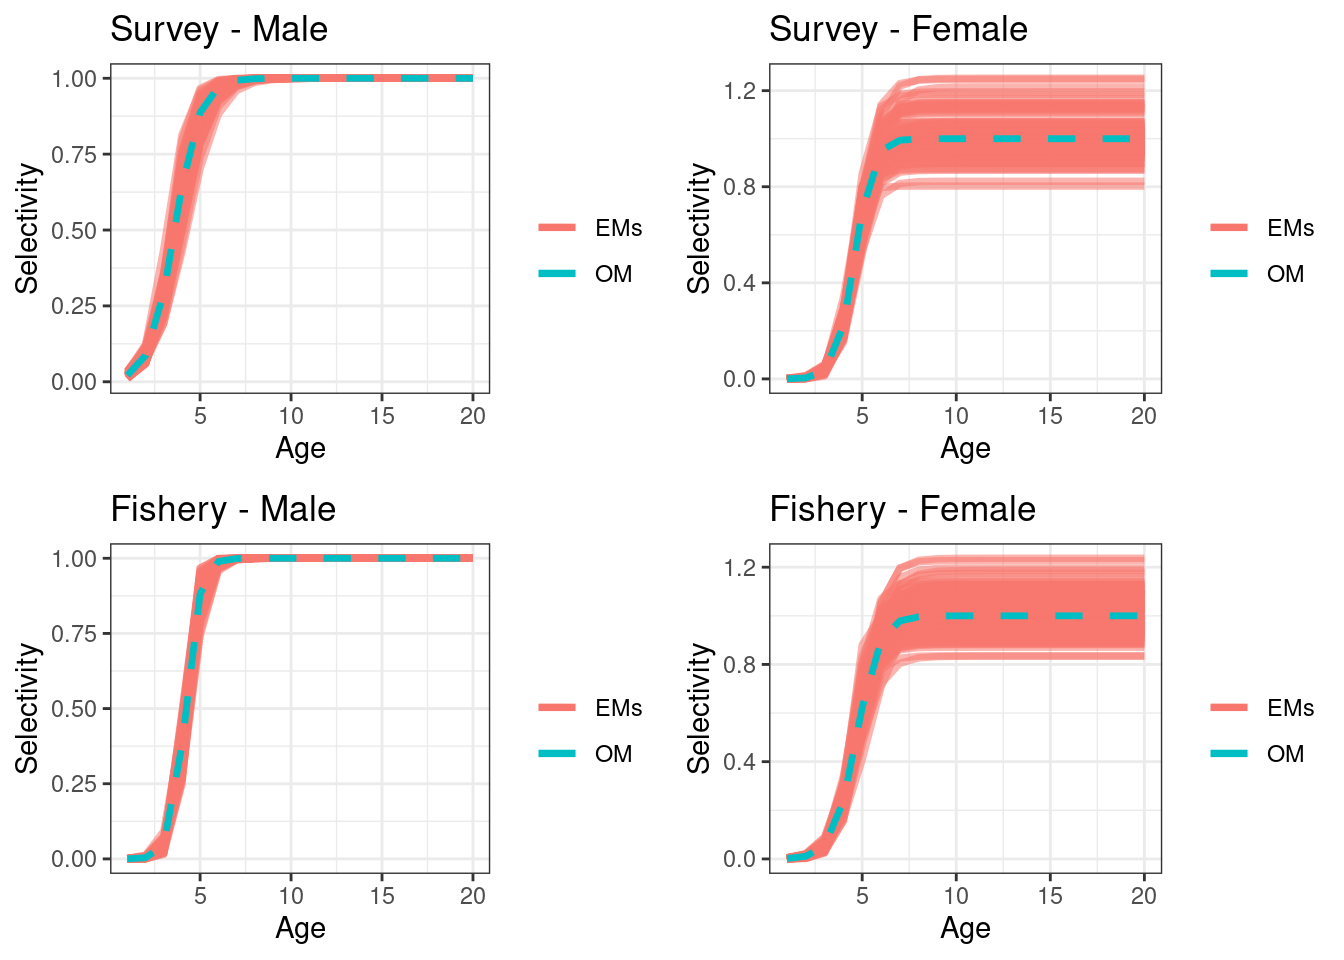
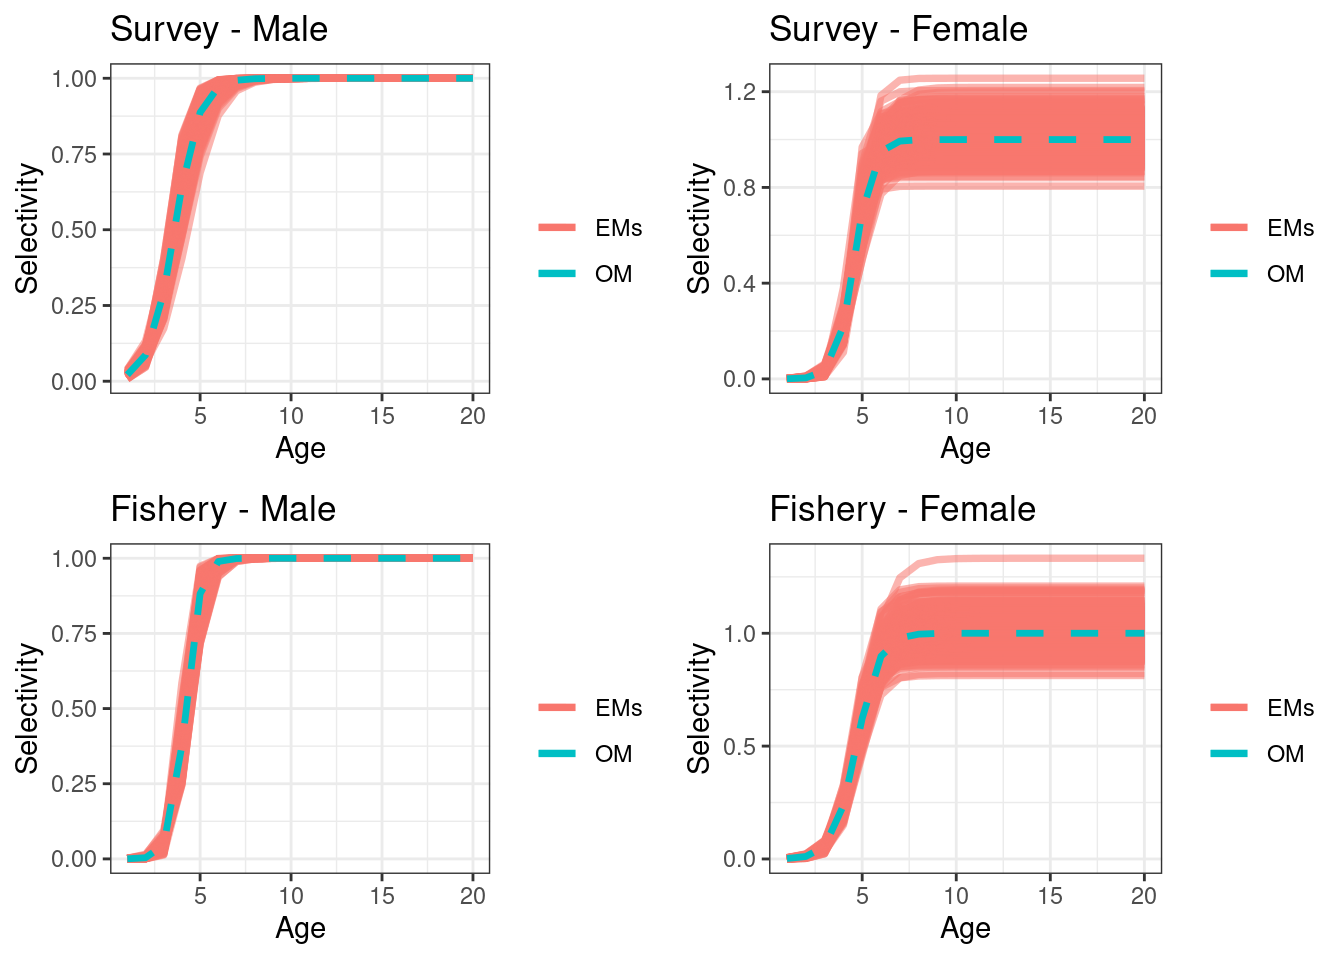
Craig44 published a site update

diff --git a/sexratios.html b/sexratios.html
@@ -270,12 +270,13 @@ where, <span class="math inline">\(N^{eff, k}_{y,s}\)</span> is the effective sa
 <ul>
 <li>LF observations with sexual dimorphism in growth. A possible reason LF’s could be influencing assessment output is due to mis-specified growth à la <span class="citation">Minte-Vera et al. (<a href="#ref-minte2017get" role="doc-biblioref">2017</a>)</span></li>
 <li>Sample size between the two approaches</li>
-<li>Actual sex ratio skewed in the recruitment process, rather than just a selectivity effect which was of focus in the following simulation .</li>
+<li>Actual sex ratio skewed in the recruitment process, rather than just a selectivity effect which was of focus in the following simulation</li>
+<li>Look at the effect on <span class="math inline">\(F\)</span>’s I only summarised SSB and selectivities</li>
 </ul>
 </div>
 <div id="operating-model-om-parameters" class="section level3 hasAnchor" number="4.1.2">
 <h3><span class="header-section-number">4.1.2</span> Operating Model (OM) Parameters<a href="sexratios.html#operating-model-om-parameters" class="anchor-section" aria-label="Anchor link to header"></a></h3>
-<div class="sourceCode" id="cb2"><pre class="sourceCode r"><code class="sourceCode r"><span id="cb2-1"><a href="sexratios.html#cb2-1" aria-hidden="true" tabindex="-1"></a>n_sims <span class="ot">=</span> <span class="dv">100</span></span>
+<div class="sourceCode" id="cb2"><pre class="sourceCode r"><code class="sourceCode r"><span id="cb2-1"><a href="sexratios.html#cb2-1" aria-hidden="true" tabindex="-1"></a>n_sims <span class="ot">=</span> <span class="dv">250</span></span>
 <span id="cb2-2"><a href="sexratios.html#cb2-2" aria-hidden="true" tabindex="-1"></a></span>
 <span id="cb2-3"><a href="sexratios.html#cb2-3" aria-hidden="true" tabindex="-1"></a>bio_params <span class="ot">=</span> <span class="fu">list</span>(</span>
 <span id="cb2-4"><a href="sexratios.html#cb2-4" aria-hidden="true" tabindex="-1"></a>  <span class="at">ages =</span> <span class="dv">1</span><span class="sc">:</span><span class="dv">20</span>,</span>
@@ -349,7 +350,7 @@ S^{female}_a = \alpha/(1+19^{(a_{50}-a)/a_{to95})})
 <p>Although this scenario assumed both male and female had the same max selectivity I wanted to see the effect of estimating this additional parameter.</p>
 <div id="em-1-using-approach-1" class="section level4 unnumbered hasAnchor">
 <h4>EM 1 (using approach 1)<a href="sexratios.html#em-1-using-approach-1" class="anchor-section" aria-label="Anchor link to header"></a></h4>
-<pre><code>## max gradient from 100 simualtions =  7.735343e-07</code></pre>
+<pre><code>## max gradient from 100 simualtions =  2.148523e-06</code></pre>
 <p><img src="_main_files/figure-html/run_scenario_1_EM_1-1.png" width="672" /></p>
 <div class="figure"><span style="display:block;" id="fig:runscenario1EM1ssb"></span>
 <img src="_main_files/figure-html/runscenario1EM1ssb-1.png" alt="Absolute SSBs, red line OM (truth), black lines are the estimated values form EMs" width="672" />
@@ -360,7 +361,7 @@ Figure 4.2: Absolute SSBs, red line OM (truth), black lines are the estimated va
 </div>
 <div id="em-2-using-approach-2" class="section level4 unnumbered hasAnchor">
 <h4>EM 2 (using approach 2)<a href="sexratios.html#em-2-using-approach-2" class="anchor-section" aria-label="Anchor link to header"></a></h4>
-<pre><code>## max gradient from 100 simualtions =  1.008376e-05</code></pre>
+<pre><code>## max gradient from 100 simualtions =  0.01003628</code></pre>
 <p><img src="_main_files/figure-html/run_scenario_1_EM_2-1.png" width="672" /></p>
 <div class="figure"><span style="display:block;" id="fig:runscenario1EM2ssb"></span>
 <img src="_main_files/figure-html/runscenario1EM2ssb-1.png" alt="Absolute SSBs, red line OM (truth), black lines are the estimated values form EMs" width="672" />
@@ -376,7 +377,7 @@ Figure 4.3: Absolute SSBs, red line OM (truth), black lines are the estimated va
 <div class="sourceCode" id="cb5"><pre class="sourceCode r"><code class="sourceCode r"><span id="cb5-1"><a href="sexratios.html#cb5-1" aria-hidden="true" tabindex="-1"></a>true_pars<span class="sc">$</span>logit_f_alpha_f <span class="ot">=</span> <span class="fu">logit_general</span>(<span class="fl">1.2</span>, TMB_data<span class="sc">$</span>sel_alpha_bounds[<span class="dv">1</span>], TMB_data<span class="sc">$</span>sel_alpha_bounds[<span class="dv">2</span>])</span></code></pre></div>
 <div id="em-1-using-approach-1-1" class="section level4 unnumbered hasAnchor">
 <h4>EM 1 (using approach 1)<a href="sexratios.html#em-1-using-approach-1-1" class="anchor-section" aria-label="Anchor link to header"></a></h4>
-<pre><code>## max gradient from 100 simualtions =  2.209329e-06</code></pre>
+<pre><code>## max gradient from 100 simualtions =  0.09063815</code></pre>
 <p><img src="_main_files/figure-html/run_scenario_2_EM_1-1.png" width="672" /></p>
 <div class="figure"><span style="display:block;" id="fig:runscenario2EM1ssb"></span>
 <img src="_main_files/figure-html/runscenario2EM1ssb-1.png" alt="Absolute SSBs, red line OM (truth), black lines are the estimated values form EMs" width="672" />
@@ -387,7 +388,7 @@ Figure 4.4: Absolute SSBs, red line OM (truth), black lines are the estimated va
 </div>
 <div id="em-2-using-approach-2-1" class="section level4 unnumbered hasAnchor">
 <h4>EM 2 (using approach 2)<a href="sexratios.html#em-2-using-approach-2-1" class="anchor-section" aria-label="Anchor link to header"></a></h4>
-<pre><code>## max gradient from 100 simualtions =  7.067668e-06</code></pre>
+<pre><code>## max gradient from 100 simualtions =  1.558348e-05</code></pre>
 <p><img src="_main_files/figure-html/run_scenario_2_EM_2-1.png" width="672" /></p>
 <div class="figure"><span style="display:block;" id="fig:runscenario2EM2ssb"></span>
 <img src="_main_files/figure-html/runscenario2EM2ssb-1.png" alt="Absolute SSBs, red line OM (truth), black lines are the estimated values form EMs" width="672" />
@@ -398,7 +399,7 @@ Figure 4.5: Absolute SSBs, red line OM (truth), black lines are the estimated va
 </div>
 <div id="em-3-using-approach-1-with-female-fixed-at-alpha-1" class="section level4 unnumbered hasAnchor">
 <h4>EM 3 (using approach 1 with female fixed at <span class="math inline">\(\alpha = 1\)</span>)<a href="sexratios.html#em-3-using-approach-1-with-female-fixed-at-alpha-1" class="anchor-section" aria-label="Anchor link to header"></a></h4>
-<pre><code>## max gradient from 100 simualtions =  2.407385e-06</code></pre>
+<pre><code>## max gradient from 100 simualtions =  1.886556e-06</code></pre>
 <p><img src="_main_files/figure-html/run_scenario_2_EM_3-1.png" width="672" /></p>
 <div class="figure"><span style="display:block;" id="fig:runscenario2EM3ssb"></span>
 <img src="_main_files/figure-html/runscenario2EM3ssb-1.png" alt="Absolute SSBs, red line OM (truth), black lines are the estimated values form EMs" width="672" />
@@ -480,7 +481,8 @@ gitbook.start({
 "options": null
 },
 "toc": {
-"collapse": "subsection"
+"collapse": "subsection",
+"depth": 1
 }
 });
 });

diff --git a/index.html b/index.html
@@ -235,7 +235,14 @@ div.csl-indent {
 </div>
 <div id="overview" class="section level1 hasAnchor" number="1">
 <h1><span class="header-section-number">Chapter 1</span> Overview<a href="index.html#overview" class="anchor-section" aria-label="Anchor link to header"></a></h1>
-<p>This Gitbook documents my/our research for the Alaska sablefish (<em>Anoplopoma fimbria</em>).</p>
+<p>This Gitbook documents my/our research for the Alaska sablefish (<em>Anoplopoma fimbria</em>). The objective is to develop and explore a spatially explicit stock assessment for Alaskan sablefish. However, there will be many other topics that I will likely only scratch the surface on. The following outlines the chapters in this document</p>
+<ul>
+<li><p>Chapter <a href="objectives.html#objectives">2</a> is a list of objectives that we have set or accomplished during this research project. Some of our research cannot be in this book/repo due to the confidential nature of the data. This checklist should include tasks for the wider research</p></li>
+<li><p>Chapter <a href="modeldescription.html#modeldescription">3</a> documents the current stock assessment model and assumptions (work in progress). This first is the first step of the project and helps me get a grasp of data and dynamics that are important</p></li>
+<li><p>Chapter <a href="sexratios.html#sexratios">4</a> explores how to include sex disaggregated composition observations that can include sex ratio information. It conducts a simple simulation to investigate two different approaches than what is currently done in the assessment</p></li>
+<li><p>Chapter <a href="Fexplore.html#Fexplore">5</a> explores how to parameterise fishing mortality. The current approach is to estimate an annual fishing mortality parameter for each gear. I feel slightly uncomfortable about this approach moving towards a spatial model as the number of estimated parameters will explode. This chapter looks at two alternative approaches that either derive fishing mortality estimates using a Newton Raphson solver which is borrowed from the Stock Synthesis “hybrid” approach <span class="citation">(<a href="#ref-methot2013stock" role="doc-biblioref">Methot Jr and Wetzel 2013</a>)</span> and Pope’s discrete approach <span class="citation">(<a href="#ref-pope1972investigation" role="doc-biblioref">Pope 1972</a>)</span> which uses exploitation rates. All of these methods have been used in literature for decades and we don’t wish to identify a “best” methods. The aim is to do a simulation and make sure these two approaches are numerical stability and have good convergence properties under a range of fishing patterns.</p></li>
+<li><p>Chapter <a href="tagdata.html#tagdata">6</a> describes the tagging data and how it can be used within a spatial model but also used in a panmictic model for informing population dynamics such as growth.</p></li>
+</ul>
 <div class="sourceCode" id="cb1"><pre class="sourceCode r"><code class="sourceCode r"><span id="cb1-1"><a href="index.html#cb1-1" aria-hidden="true" tabindex="-1"></a><span class="fu">library</span>(TMB)</span>
 <span id="cb1-2"><a href="index.html#cb1-2" aria-hidden="true" tabindex="-1"></a><span class="co">#library(stockassessmenthelper)</span></span>
 <span id="cb1-3"><a href="index.html#cb1-3" aria-hidden="true" tabindex="-1"></a><span class="fu">library</span>(ggplot2)</span>
@@ -243,6 +250,15 @@ div.csl-indent {
 <span id="cb1-5"><a href="index.html#cb1-5" aria-hidden="true" tabindex="-1"></a><span class="fu">library</span>(reshape2)</span>
 <span id="cb1-6"><a href="index.html#cb1-6" aria-hidden="true" tabindex="-1"></a><span class="fu">library</span>(gridExtra)</span></code></pre></div>
 
+</div>
+<h3>References<a href="references.html#references" class="anchor-section" aria-label="Anchor link to header"></a></h3>
+<div id="refs" class="references csl-bib-body hanging-indent">
+<div id="ref-methot2013stock" class="csl-entry">
+Methot Jr, Richard D, and Chantell R Wetzel. 2013. <span>“Stock Synthesis: A Biological and Statistical Framework for Fish Stock Assessment and Fishery Management.”</span> <em>Fisheries Research</em> 142: 86–99.
+</div>
+<div id="ref-pope1972investigation" class="csl-entry">
+Pope, JG. 1972. <span>“An Investigation of the Accuracy of Virtual Population Analysis Using Cohort Analysis.”</span> <em>ICNAF Research Bulletin</em> 9 (10): 65–74.
+</div>
 </div>
             </section>
 
@@ -298,7 +314,8 @@ gitbook.start({
 "options": null
 },
 "toc": {
-"collapse": "subsection"
+"collapse": "subsection",
+"depth": 1
 }
 });
 });

diff --git a/404.html b/404.html
@@ -288,7 +288,8 @@ gitbook.start({
 "options": null
 },
 "toc": {
-"collapse": "subsection"
+"collapse": "subsection",
+"depth": 1
 }
 });
 });

diff --git a/Fexplore.html b/Fexplore.html
@@ -463,7 +463,8 @@ gitbook.start({
 "options": null
 },
 "toc": {
-"collapse": "subsection"
+"collapse": "subsection",
+"depth": 1
 }
 });
 });

diff --git a/modeldescription.html b/modeldescription.html
@@ -760,7 +760,8 @@ gitbook.start({
 "options": null
 },
 "toc": {
-"collapse": "subsection"
+"collapse": "subsection",
+"depth": 1
 }
 });
 });

diff --git a/objectives.html b/objectives.html
@@ -293,7 +293,8 @@ gitbook.start({
 "options": null
 },
 "toc": {
-"collapse": "subsection"
+"collapse": "subsection",
+"depth": 1
 }
 });
 });

diff --git a/references.html b/references.html
@@ -330,7 +330,8 @@ gitbook.start({
 "options": null
 },
 "toc": {
-"collapse": "subsection"
+"collapse": "subsection",
+"depth": 1
 }
 });
 });

diff --git a/refpoints.html b/refpoints.html
@@ -317,7 +317,8 @@ gitbook.start({
 "options": null
 },
 "toc": {
-"collapse": "subsection"
+"collapse": "subsection",
+"depth": 1
 }
 });
 });

diff --git a/tagdata.html b/tagdata.html
@@ -511,7 +511,8 @@ gitbook.start({
 "options": null
 },
 "toc": {
-"collapse": "subsection"
+"collapse": "subsection",
+"depth": 1
 }
 });
 });
